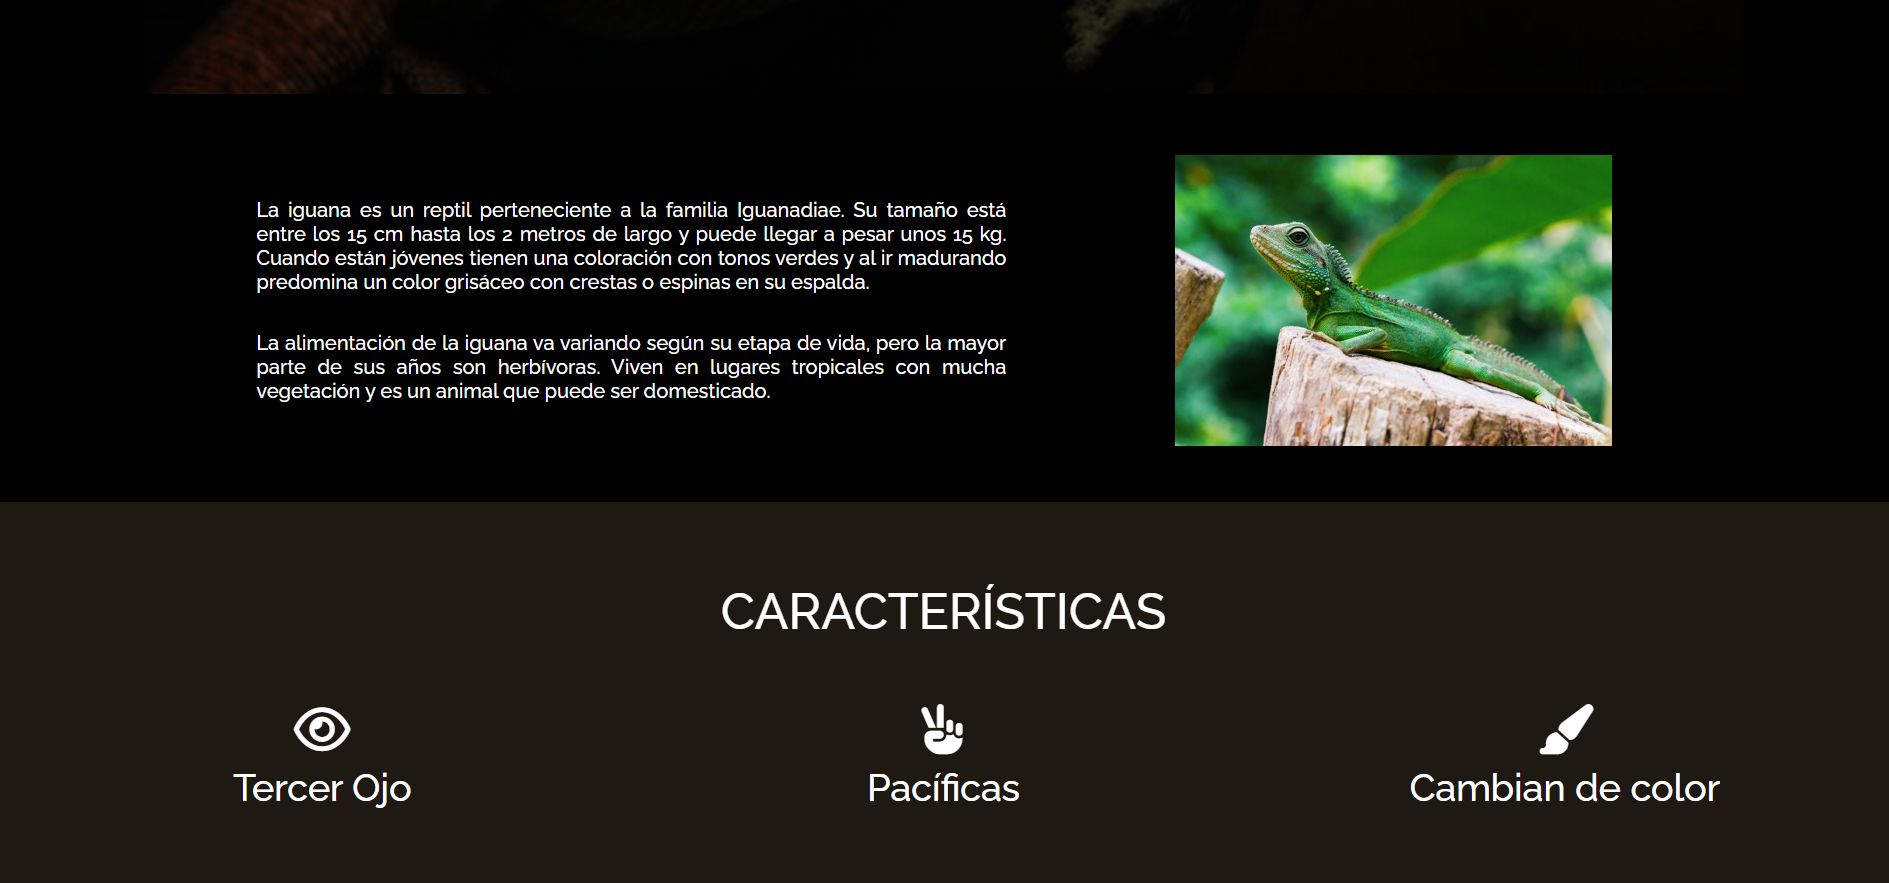
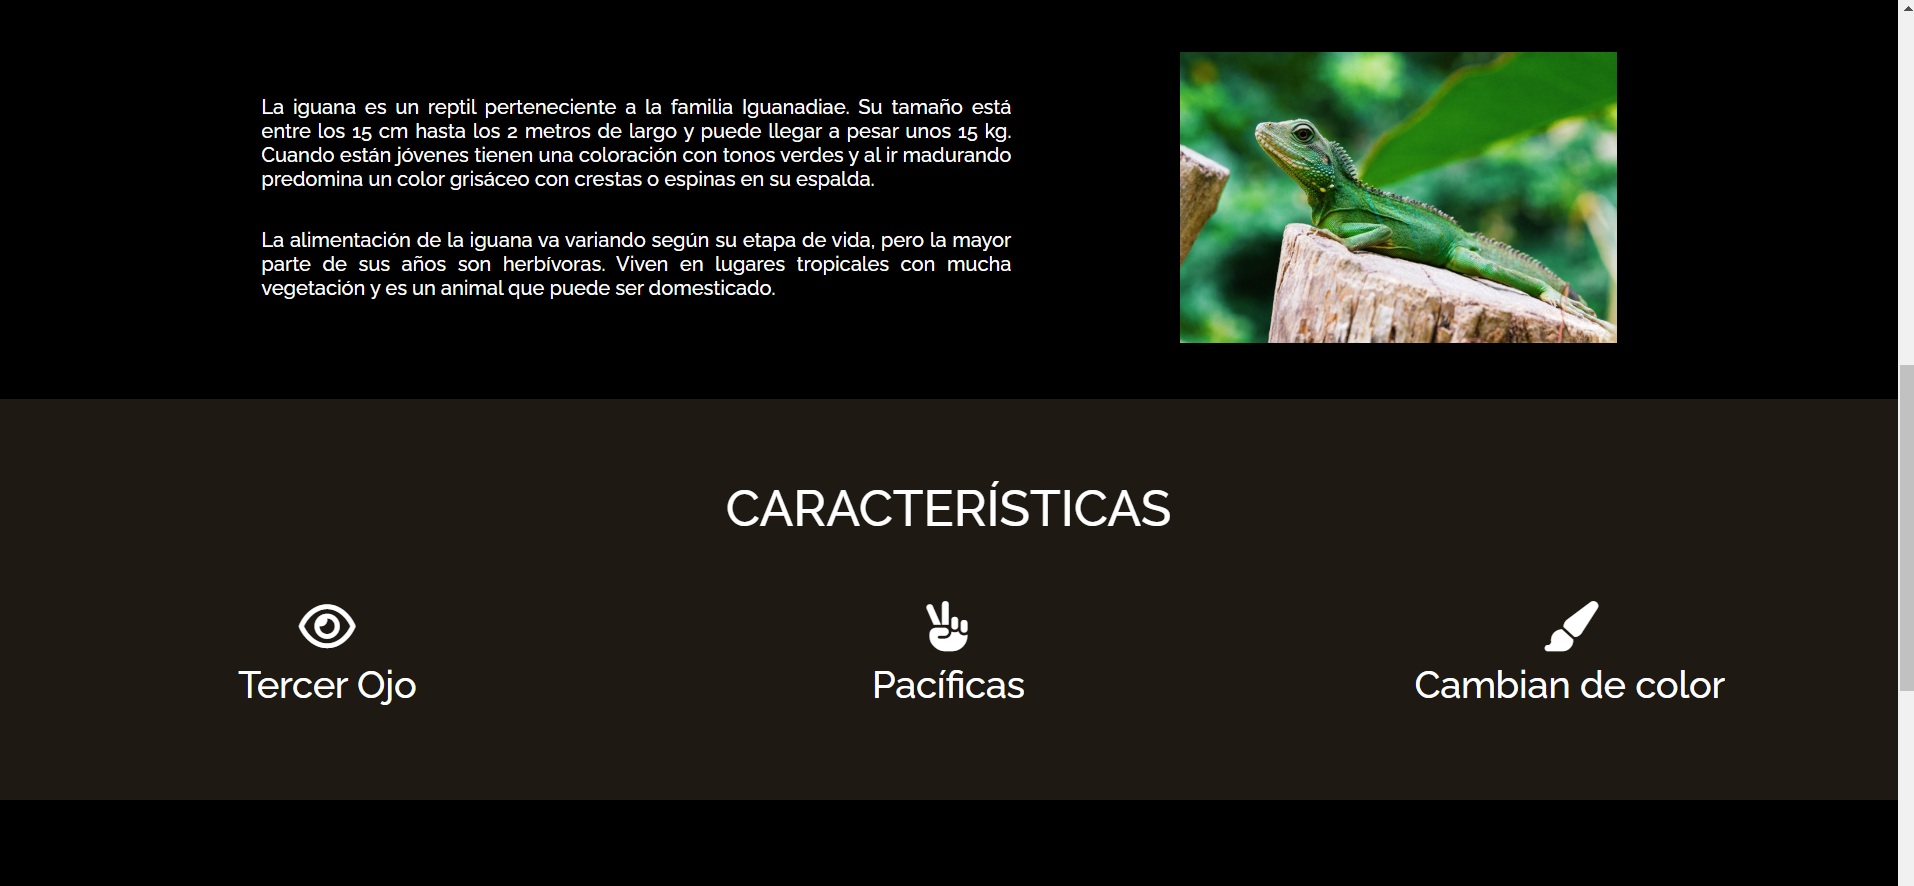
Se actualizan imágenes

diff --git a/assets/css/style2.css b/assets/css/style2.css
@@ -6,3 +6,13 @@ header h1 {
 .card-body {
     background-color: indigo;
 }
+
+footer p {
+    background-color: #41059b;
+}
+
+
+.container {
+    display: flex;
+    justify-content: space-between;
+}
